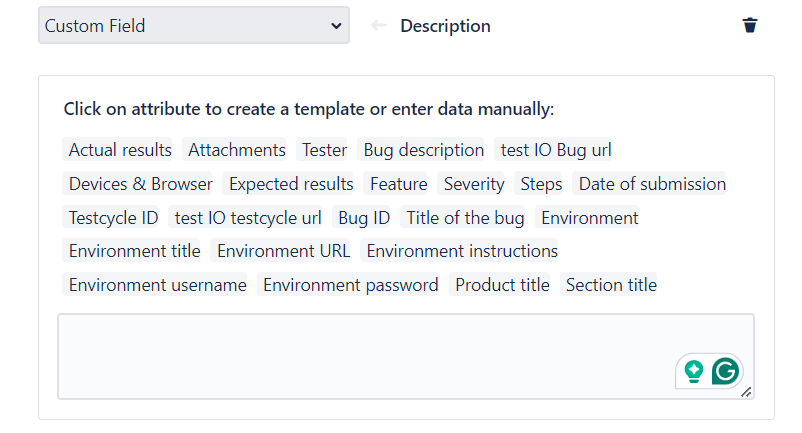
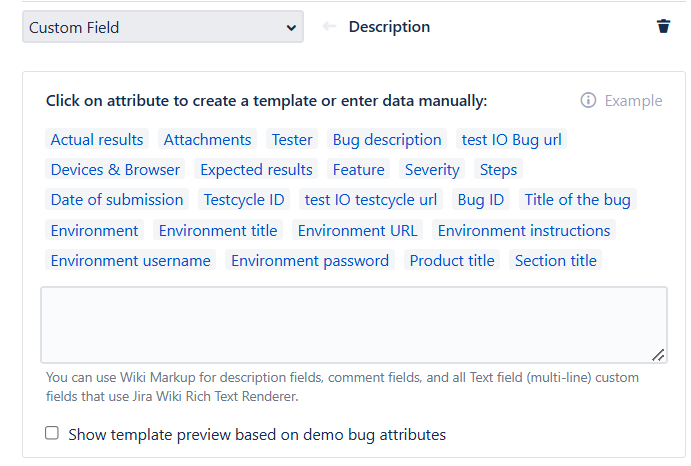
Changes on Custom_field page

diff --git a/src/pages/docs/jira_server/custom_field.md b/src/pages/docs/jira_server/custom_field.md
@@ -5,13 +5,21 @@ description: Learn how to work with Custom Fields in Configuration.
 
 The Custom Field is a powerful editor that allows you to create pre-formatted bug reports with dynamically changing content, tailored to your preferences. To use the attributes, simply click on them to make them appear in the editor, then use their content as needed.
 
-When working with Custom Fields, you have two options:
+When working with Custom Fields, you have three options:
 
 - **Use predefined attributes**: Click on the attributes to insert them into the editor and enter any additional text.
 
 - **Enter data manually**: Type directly into the editor to input your custom content.
 
 {% screenshot src="/assets/jira_server/config/custom_field.png" caption="Custom Fields in Configuration" /%}
+
+- **Use predefined example with attributes**: Click on 'Example' and copy paste ready example into the editor.
+
+{% screenshot src="/assets/jira_server/config/custom_example.png" caption="Custom field with ready example" /%}
+
+After all the attributes are filled, user can see the final result while checking the check box **'Show template preview based on demo bug attributes'**.
+
+{% screenshot src="/assets/jira_server/config/custom_preview.png" caption="Preview of Custom Field" /%}
 
 You can find the list of attributes and their corresponding terms in the Test IO Bug Report above:
 {% table .custom %}
